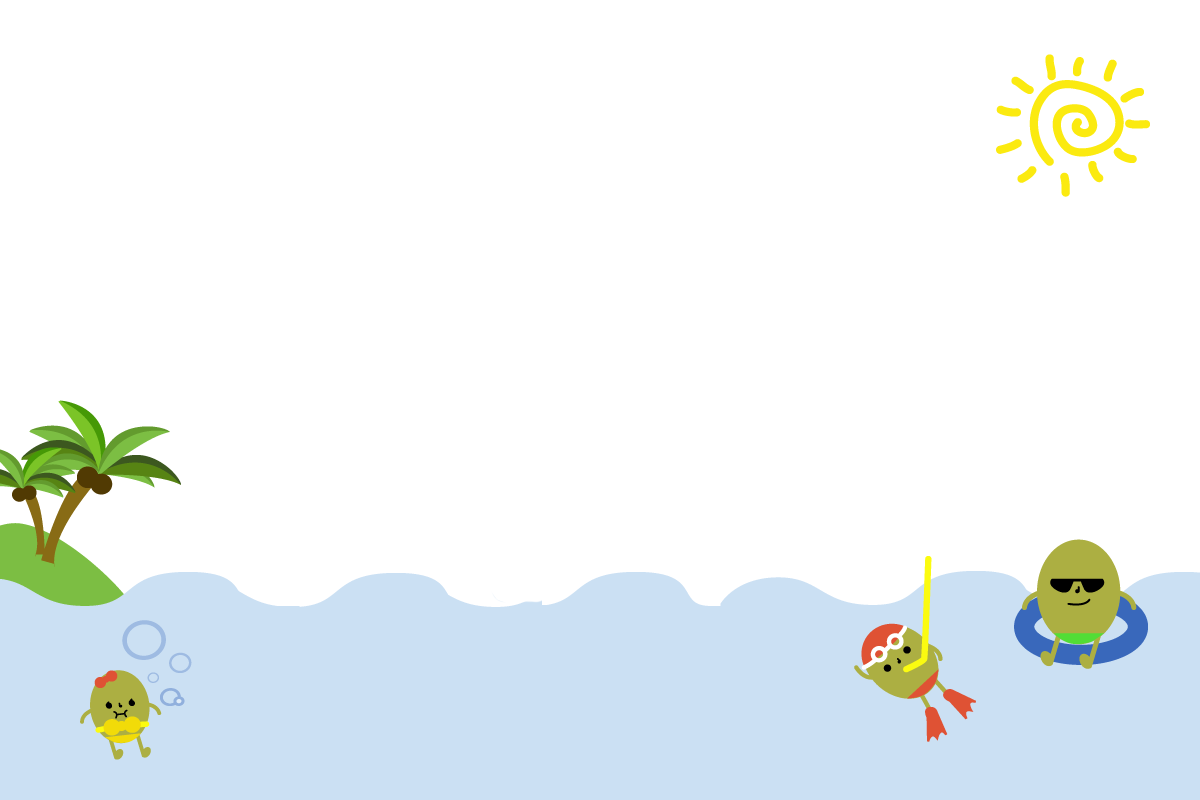
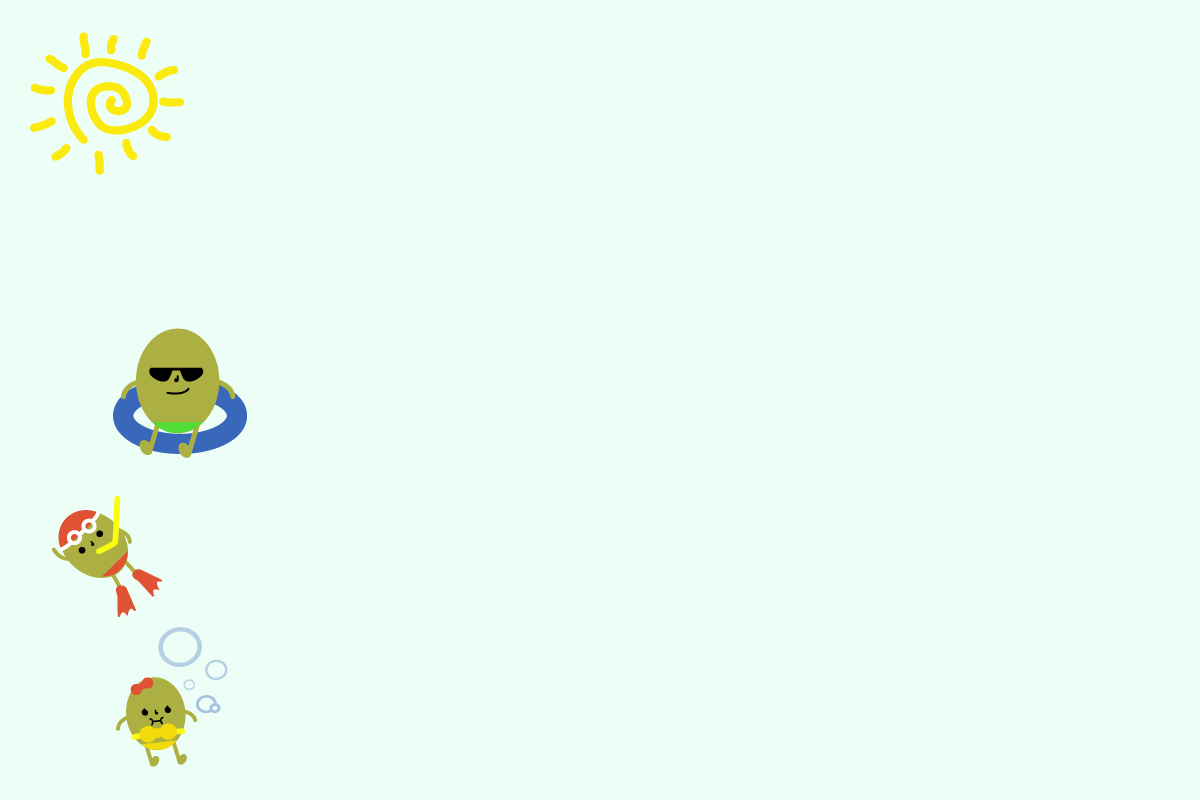
테이블에 사용자 추가 완료 + 세션에 사용자가 저장했던 bg 불러와서 넣는작업중 + 배경바꾸고저장하는거 change_bg.jsp에서 기능구현중

diff --git a/oleview_upload/src/User/Login.java b/oleview_upload/src/User/Login.java
@@ -54,36 +54,50 @@ public class Login extends HttpServlet {
 		session.setAttribute("userID", facebookID);
 
 		// DB에 넣기
-		Connection conn = null;
+		Connection conn = null; // null로 초기화 한다.
 		PreparedStatement stmt = null;
 		ResultSet rs = null;
-		String driverName = "com.mysql.jdbc.Driver";
-		try {
-			Class.forName(driverName);
-			conn = DriverManager.getConnection(
-					"jdbc:mysql://localhost:3306/leeminka2", "leeminka2",
-					"oleview1");
 
-			// DB에 들어있는지 확인
-			String checksql = "select count (*) from user where id="
+		try {
+			String url = "jdbc:mysql://localhost:3306/leeminka2"; // 사용하려는
+																	// 데이터베이스명을
+																	// 포함한 URL
+																	// 기술
+			String id = "leeminka2"; // 사용자 계정
+			String pw = "oleview1"; // 사용자 계정의 패스워드
+
+			Class.forName("com.mysql.jdbc.Driver"); // 데이터베이스와 연동하기 위해
+													// DriverManager에 등록한다.
+			conn = DriverManager.getConnection(url, id, pw); // DriverManager
+																// 객체로부터
+																// Connection					// 객체를 얻어온다.
+			// 카테고리 갯수확인
+			String cnt_sql = "select count(*) from user where id="
 					+ facebookID;
-			stmt = conn.prepareStatement(checksql);
+			stmt = conn.prepareStatement(cnt_sql);
 			rs = stmt.executeQuery();
-			int rowcnt = 0;
+			int rowcount = 0;
 			rs.next();
-			rowcnt = rs.getInt(1);
-			if (rowcnt == 0) {
-				// DB에 등록되지 않은사용자
-				String insertsql = "insert into user value('" + facebookID
-						+ "')";
+			rowcount = rs.getInt(1);
+			out.println("rowcount = " + rowcount + "\n");
+			if (rowcount == 0) {
+				//처음 로그인하는 사람은 user테이블에 추가
+				String insertsql = "insert into user values('" + facebookID
+						+ "', '0')";
 				stmt = conn.prepareStatement(insertsql);
 				stmt.executeUpdate();
 			} else {
-				out.print("already regist user");
+				//로그인 한적 있는 사람은 user테이블에서 배경값 설정한거 가져오기
+				String checkbg = "select background from user where id=" + facebookID;
+				stmt = conn.prepareStatement(checkbg);
+				rs = stmt.executeQuery();
+				String background = rs.getString("background");
+				//가져온 배경값 세션에 넣기
+				session.setAttribute("userBG", background);
+				
 			}
-
-		} catch (Exception E) {
-			E.printStackTrace();
+		} catch (Exception e) {
+			e.printStackTrace();
 		} finally {
 			if (rs != null)
 				try {
@@ -100,7 +114,6 @@ public class Login extends HttpServlet {
 					conn.close();
 				} catch (SQLException sqle) {
 				} // Connection 해제
-
 		}
 	}
 
